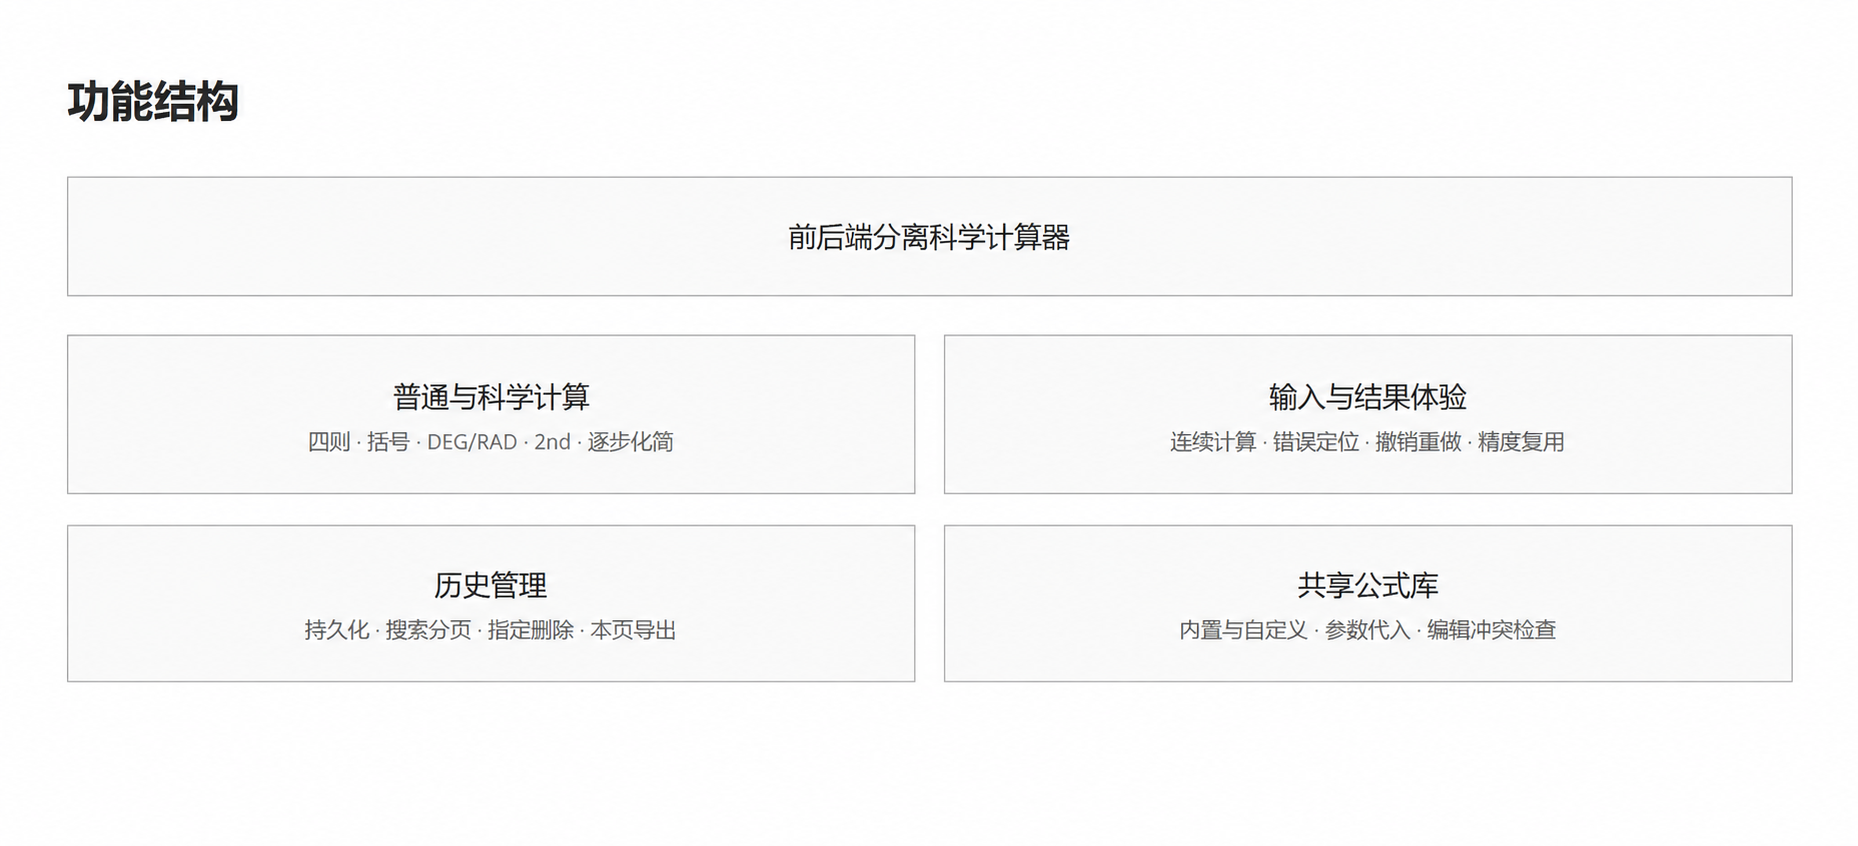
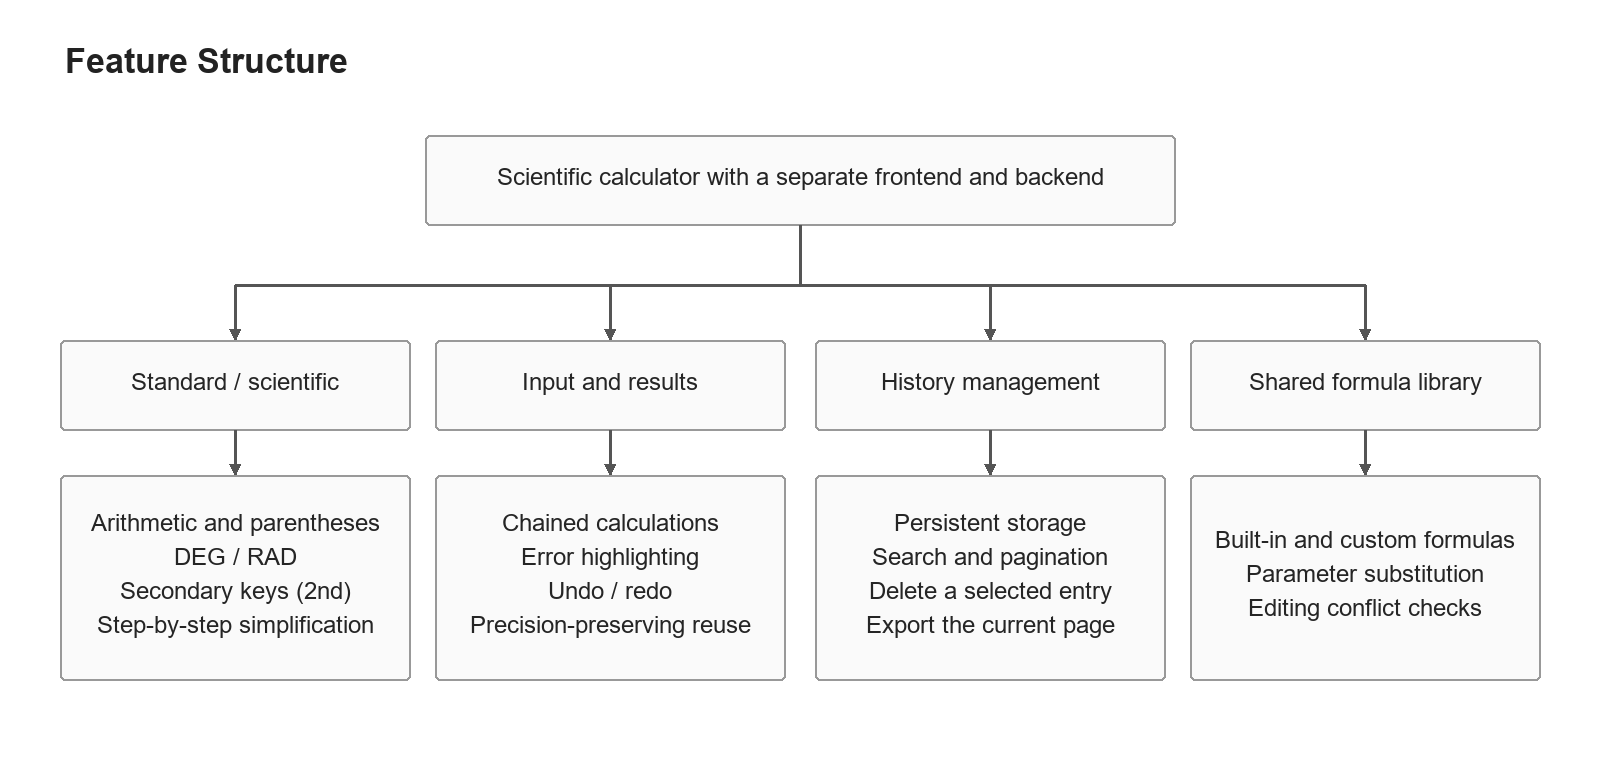
Align bilingual documentation and verification with current release

diff --git a/docs/VERIFICATION.md b/docs/VERIFICATION.md
@@ -1,46 +1,42 @@
 # 功能与验证记录
 
-核对日期：2026-10-04。网站入口：https://calculator.assignment1.workers.dev 。
+核对日期：2026-10-05。网站入口：https://calculator.assignment1.workers.dev 。
 
-| 检查项目 | 结果与依据 |
+| 检查项目 | 当前结果与依据 |
 |---|---|
 | 后端 CI | 234 项通过，覆盖率 98%，包括 PostgreSQL；[检查记录](https://github.com/HX-Jan/calculator-backend/actions) |
-| 前端 CI | 18 项测试、语法检查和构建通过；[检查记录](https://github.com/HX-Jan/calculator-frontend/actions) |
-| 本地后端 | 231 项通过；未配置 PostgreSQL，相关 3 项跳过 |
-| 配图 | 19 张本地运行截图；3 张设计图已补齐线上 D1 和错误分支，并移除功能图底部旧说明 |
-| Cloudflare 配置 | Worker 名称 calculator，D1 绑定为原 calculator 数据库，账号子域名 assignment1 |
-| 本轮范围 | 按项目负责人的选择不复验公网访问；核查代码、文档和本地交互 |
+| 前端 CI | 20 项测试、语法检查和构建通过；[检查记录](https://github.com/HX-Jan/calculator-frontend/actions) |
+| 本地后端既有记录 | 231 项通过；未配置 PostgreSQL，相关 3 项跳过 |
+| 博客配图 | 两版各 22 张：19 张新版运行截图共用，3 张设计图按语言区分；6.17 半径输入为 9 |
+| 项目预览 | README 预览图对应新版科学模式，历史已采用数学排版 |
+| Cloudflare 配置 | Worker 名称 calculator，D1 绑定及同源 API 保持不变 |
 
 ## 功能实现
 
 | 功能 | 代码或文件 |
 |---|---|
 | 四则、科学函数、优先级及精度 | 后端 `app/parser.py`、`app/scientific.py` |
-| 结果由后端计算并返回字符串 | 后端计算路由；前端 `src/api.js`、`src/result-view.js` |
-| 历史搜索、分页、指定删除 | 后端 `app/service.py`、`app/main.py`；Cloudflare 使用 `app/cloudflare.py` |
+| 后端返回字符串结果 | 后端计算路由；前端 `src/api.js`、`src/result-view.js` |
+| 历史搜索、分页、指定删除 | 后端 `app/service.py`、`app/main.py`；线上 `app/cloudflare.py` |
 | SQLite/PostgreSQL 与线上 D1 | 后端 `app/database.py`、`migrations/0001_cloudflare.sql` 和 Workers 绑定 |
 | 函数包裹、连续计算、100 步撤销重做 | 前端 `src/expression-editor.js`、`src/main.js` |
 | 逐步化简与 UTF-16 高亮 | 后端 `app/parser.py`；前端 `src/steps-view.js` |
-| 公式校验、参数代入、版本冲突 | 后端 `app/formula_rules.py`、`app/formulas.py`、`app/cloudflare.py`；前端 `src/formula-library.js` |
+| 公式校验、参数代入、编辑冲突 | 后端 `app/formula_rules.py`、`app/formulas.py`、`app/cloudflare.py`；前端 `src/formula-library.js` |
 | 普通/科学、DEG/RAD、主题和手机布局 | 前端 `index.html`、`src/main.js`、`src/style.css` |
+| 乘除符号、π 及历史复用 | 前端 `src/expression-editor.js`、`src/history-utils.js`、`src/main.js` |
+| 根号、上标、多次方根和分式展示 | 前端 `src/formula-notation.js`、`src/formula-view.js`；本地打包 KaTeX |
 | 历史当前页 CSV 导出 | 前端 `src/history-utils.js` |
 
-测试覆盖计算规则、数据库持久化、公式参数与版本冲突，以及前端输入编辑、撤销重做和结果格式化。
+## 计算与展示规则
 
-此前 Cloudflare 原地址完成过科学运算、公式增删改、冲突、非法输入及重部署后持久化检查。它们不是新地址的复验结果。除本轮更新的公式库、参数窗口及手机深色界面外，既有界面截图为 2026-10-02 本地运行画面；390px 截图是浏览器视口，网络失败通过请求阻断模拟。
+数学排版用于公式列表、编辑预览、参数窗口、历史和删除确认。编辑与计算保留原表达式语法；展示时省略乘号不代表支持隐式乘法。输入框中的乘除显示为 ×、÷，历史复用还将 pi 显示为 π。复制和 CSV 使用原始表达式；结果继续按字符串保存、显示和复用。
 
-历史及公式共享，没有账号隔离。未进行大规模并发测试；测试客户端有一条 Starlette/httpx 弃用提示。
+既有浏览器检查覆盖连续计算、重复等号、撤销、错误选区、角度切换、历史搜索与复用、确认删除、公式参数代入、复制及科学计数。数学排版回归包括 sqrt(9)+2^3=11、(-2)^2=4、-2^2=-4、2^3^2=512、root(32,5)=2 及 1/3；保留负数括号与乘方结合顺序。
 
-## 最终审查修正
+390px 深色视口中，长历史公式在自身区域横向滚动，页面宽度仍为 390px。运行图片来自本地 Edge 浏览器；手机图是视口截图。网络失败图通过阻断请求模拟。19 张运行图均已在最新符号及历史排版版本下重新拍摄。
 
-历史结果改用 TEXT 存储，修复旧 PostgreSQL VARCHAR(1024) 无法保存部分合法极小结果的问题。启动迁移保留数据并可重复执行，新增测试覆盖超过 1024 字符的结果保存与旧表升级。后端 CI 234 项已通过。
+## 数据与检查范围
 
-本轮本地浏览器复查连续计算、重复等号、撤销、错误选区、角度切换、历史搜索与科学复用、指定删除、公式参数代入、结果复制及科学计数显示。1366×768 与 390px 视口均未出现页面横向溢出，手机数字键高度 58px。
+历史结果使用 TEXT；旧 PostgreSQL 限长列的幂等升级保留已有数据，相关 CI 覆盖长结果保存及旧表迁移。历史与自定义公式共享，没有账号隔离。
 
-## 公式数学排版
-
-公式列表、参数窗口和编辑预览使用本地打包的 KaTeX 0.19.0。新增 6 项测试，覆盖内置公式、优先级、分式、长数、科学函数及无效输入回退，前端合计 18 项通过。圆面积代入 sqrt(9) 后仍返回 pi*(sqrt(9))^2 和 28.27433388230813914616379045；390px 深色布局没有页面横向溢出。后端运算、数据库及 API 未改动。
-
-## 交付材料一致性
-
-2026-10-05 最终复查通过前端 18 项测试、语法与生产构建，以及后端本地 231 项测试、3 项 PostgreSQL 跳过和 Ruff。博客的 22 张配图逐一核对，6.17 圆面积参数输入为 9；sqrt(9) 仍是独立的参数算式测试案例，不与截图混用。两个仓库源码快照和交付包按审核提交同步，CSDN 由本人发布。
+本轮整理核对远端提交、最新自动检查、文档及配图，不新增公网可访问性检测或负载测试。测试客户端的一条 Starlette/httpx 弃用提示不影响既有检查通过。

diff --git a/README.en.md b/README.en.md
@@ -45,6 +45,8 @@ Only real numbers are supported; matrices, complex numbers, equation solving and
 
 ## Input and results
 
+The expression field displays `×` and `÷`, automatically converting typed or pasted `*` and `/`. The backend accepts both forms.
+
 Type or use the keypad. Enter calculates; Escape clears input. After success, a digit, decimal point or constant starts a new expression; an operator continues from the result. Clicking the input or moving the cursor allows editing the original expression. Repeated equals without changes does not resubmit or save duplicates.
 
 Function keys wrap selected text or the complete operand before the cursor. With no operand, they insert paired parentheses. On a completed result, square, cube, reciprocal and sign keys immediately request backend calculation. Generated closing parentheses can be skipped; empty pairs can be deleted together. Plain text input is not automatically paired.
@@ -62,6 +64,8 @@ Undo/redo supports the latest 100 edits, including clearing, pasting, wrapping a
 ## Steps and history
 
 Steps are collapsed by default. Expand to see numbers, operation names, complete before/after expressions and highlighted operands. Trigonometric and inverse trigonometric steps include DEG/RAD. Values may be rounded; the last step matches the result. Long expressions scroll within the panel and support keyboard focus. Responses without trace fields fall back to the older step list.
+
+History and deletion dialogs use mathematical notation for π, superscripts, roots, nth roots, and fractions. Reuse restores an editable expression; copying and CSV export retain the original expression.
 
 History is grouped by local date and supports search, 20-row pages, copying and confirmed deletion. Reuse fills the expression without calculating; press equals again. Scientific reuse restores scientific mode and the recorded angle unit. Clearing search returns to page one.
 
@@ -112,10 +116,8 @@ Stop the development server before previewing on the same port. Backend tests li
 
 Workers Static Assets serves the frontend alongside the same-origin Python API; D1 stores data. Build and deploy from the backend's `cloudflare` directory. `VITE_*` configuration is public and must not contain passwords or credentials. GitHub Actions runs checks, without automatic deployment.
 
-As of 2026-10-04, backend CI passed 234 tests with 98% coverage; frontend passed 18 tests, syntax checks and build. The interface update is deployed to the existing calculator Worker with unchanged D1 bindings. Public accessibility is outside the scope of this review.
+As of 2026-10-05, backend CI passed 234 tests with 98% coverage; frontend passed 20 tests, syntax checks and build. The interface update is deployed to the existing calculator Worker with unchanged D1 bindings. Public accessibility is outside the scope of this review.
 
 The desktop layout targets 1366×768. Main mobile controls are at least 44px, with history below the calculator. Fonts are bundled locally; licenses are in `public/licenses`.
 
 Additional documents: [Verification (Chinese)](docs/VERIFICATION.md) · [Design](DESIGN.md) · [Architecture and feature diagrams](docs/OVERVIEW.md)
-
-The expression field displays multiplication and division as `×` and `÷`. Typed or pasted `*` and `/` are converted automatically, including history reuse, function insertion, and undo/redo. The backend accepts both forms. History and deletion dialogs use mathematical typesetting for π, superscripts, roots, nth roots, and fractions. History reuse restores an editable expression. Copying and CSV export retain the original expression. After the update on 2026-10-05, all 20 frontend tests, syntax checks, and the build passed. The project preview screenshot has been refreshed.

diff --git a/README.md b/README.md
@@ -45,6 +45,8 @@ npm run dev
 
 ## 输入与结果
 
+输入框显示 `×`、`÷`，键盘输入或粘贴的 `*`、`/` 自动转换；后端兼容两种写法。
+
 输入算式或点击按键，Enter 计算，Escape 清空输入。成功后输入数字、小数点或常量开始新算式；输入运算符从当前结果继续计算。点击输入框或移动光标后可编辑原算式。未修改时连续按等号不重复提交或保存。
 
 函数键优先包裹选区，否则包裹光标前完整操作数；没有操作数时插入成对括号。结果状态下，平方、立方、倒数和正负号直接提交后端计算。自动补全的右括号可跳过，空括号对可一起退格删除；普通文本输入不强行补括号。
@@ -62,6 +64,8 @@ Ans 插入上次成功结果；MS 存储当前结果、MR 读取、MC 清除。A
 ## 步骤与历史
 
 步骤默认折叠，展开后显示编号、运算名称、算式前后变化及当前部分高亮；三角及反三角步骤显示 DEG/RAD。步骤可能包含舍入值，最后一步与结果一致。长算式在区域内横向滚动，可键盘聚焦。旧后端缺少轨迹字段时回退到原步骤列表。
+
+历史列表和删除确认使用数学排版，显示 π、上标、根号、多次方根和分式。历史复用填回可编辑的表达式，复制和 CSV 导出保留原始表达式。
 
 历史按本地日期分组，支持搜索、每页 20 条分页、复制和确认删除。复用只填入算式，需按等号重新计算；科学表达式复用恢复科学模式与原角度单位。清除搜索返回第一页。
 
@@ -112,10 +116,8 @@ npm run preview -- --port 5173
 
 前端由 Workers Static Assets 提供，与 Python API 同源，D1 保存数据。从后端仓库的 `cloudflare` 目录构建部署。`VITE_*` 配置公开可见，不能存放密码或登录凭据。GitHub Actions 运行检查，不自动部署。
 
-截至 2026-10-04，后端 CI 234 项通过，覆盖率 98%；前端 18 项测试、语法检查及构建通过。界面更新已部署到现有 calculator Worker，D1 绑定保持不变；公网访问不在本轮复查范围。
+截至 2026-10-05，后端 CI 234 项通过，覆盖率 98%；前端 20 项测试、语法检查及构建通过。界面更新已部署到现有 calculator Worker，D1 绑定保持不变；公网访问不在本轮复查范围。
 
 桌面布局以 1366×768 为目标，手机主要按钮至少 44px，历史位于计算器下方。使用本地打包字体，许可证见 `public/licenses`。
 
 补充文档：[功能与验证记录](docs/VERIFICATION.md) · [设计说明（英文）](DESIGN.md) · [结构与功能图（英文）](docs/OVERVIEW.md)
-
-输入框中的乘除运算统一显示为 `×`、`÷`；键盘输入或粘贴的 `*`、`/` 会自动转换。历史复用、函数插入及撤销重做保持相同显示。后端继续兼容两种写法。2026-10-05 历史列表和删除确认使用与公式库相同的数学排版，显示 π、上标、根号、多次方根和分式；历史复用填回可编辑的表达式；复制及 CSV 导出保留原始表达式。更新后前端 20 项测试、语法检查和构建通过，项目预览截图已更新。

diff --git a/docs/OVERVIEW.md b/docs/OVERVIEW.md
@@ -1,6 +1,6 @@
 # Current project overview
 
-Updated: 2026-10-04. The calculator supports basic/scientific modes, safe backend evaluation, persistent history, expression editing with undo/redo, step-by-step traces and a shared formula library.
+Updated: 2026-10-05. The calculator supports basic/scientific modes, safe backend evaluation, persistent history, expression editing with undo/redo, step-by-step traces and a shared formula library.
 
 - [Frontend](https://github.com/HX-Jan/calculator-frontend)
 - [Backend and API contract](https://github.com/HX-Jan/calculator-backend)
@@ -19,4 +19,4 @@ Updated: 2026-10-04. The calculator supports basic/scientific modes, safe backen
 
 ![Request flow](flow.png)
 
-The frontend never evaluates expressions. Formula parameters and calculations are handled by the backend; results remain strings. History and custom formulas are shared by all visitors without accounts. Successful calculations are committed before returning success. Public hosting uses Cloudflare Python Workers, Static Assets and persistent D1 storage. API checks were completed on the previous domain. The current domain resolves, but end-to-end access has not been reverified because connections are reset on the present network.
+The frontend never evaluates expressions. Formula parameters and calculations are handled by the backend; results remain strings. History and custom formulas are shared by all visitors without accounts. Successful calculations are committed before returning success. Public hosting uses Cloudflare Python Workers, Static Assets and persistent D1 storage. Public accessibility is outside the scope of this documentation review.

diff --git a/DESIGN.md b/DESIGN.md
@@ -24,4 +24,4 @@ Preserves keyboard entry, visible focus, real backend calculations, error messag
 
 The right panel switches between history and shared formulas. Formula editing and parameter entry use compact native dialogs. Step traces use ordinary typography and ×/÷ symbols, with restrained highlighting and local horizontal scrolling. No decorative animation or persistent marketing text.
 
-Formula cards, parameter dialogs and the editor preview use locally bundled KaTeX for conventional mathematical notation. Input retains the backend expression syntax. Long formulas scroll inside their own region; incomplete edits fall back to text. No calculation is performed by the display converter.
+Formula cards, parameter dialogs, the editor preview, history and deletion dialogs use locally bundled KaTeX for conventional mathematical notation. Input retains the backend expression syntax. Long formulas scroll inside their own region; incomplete edits fall back to text. No calculation is performed by the display converter.
